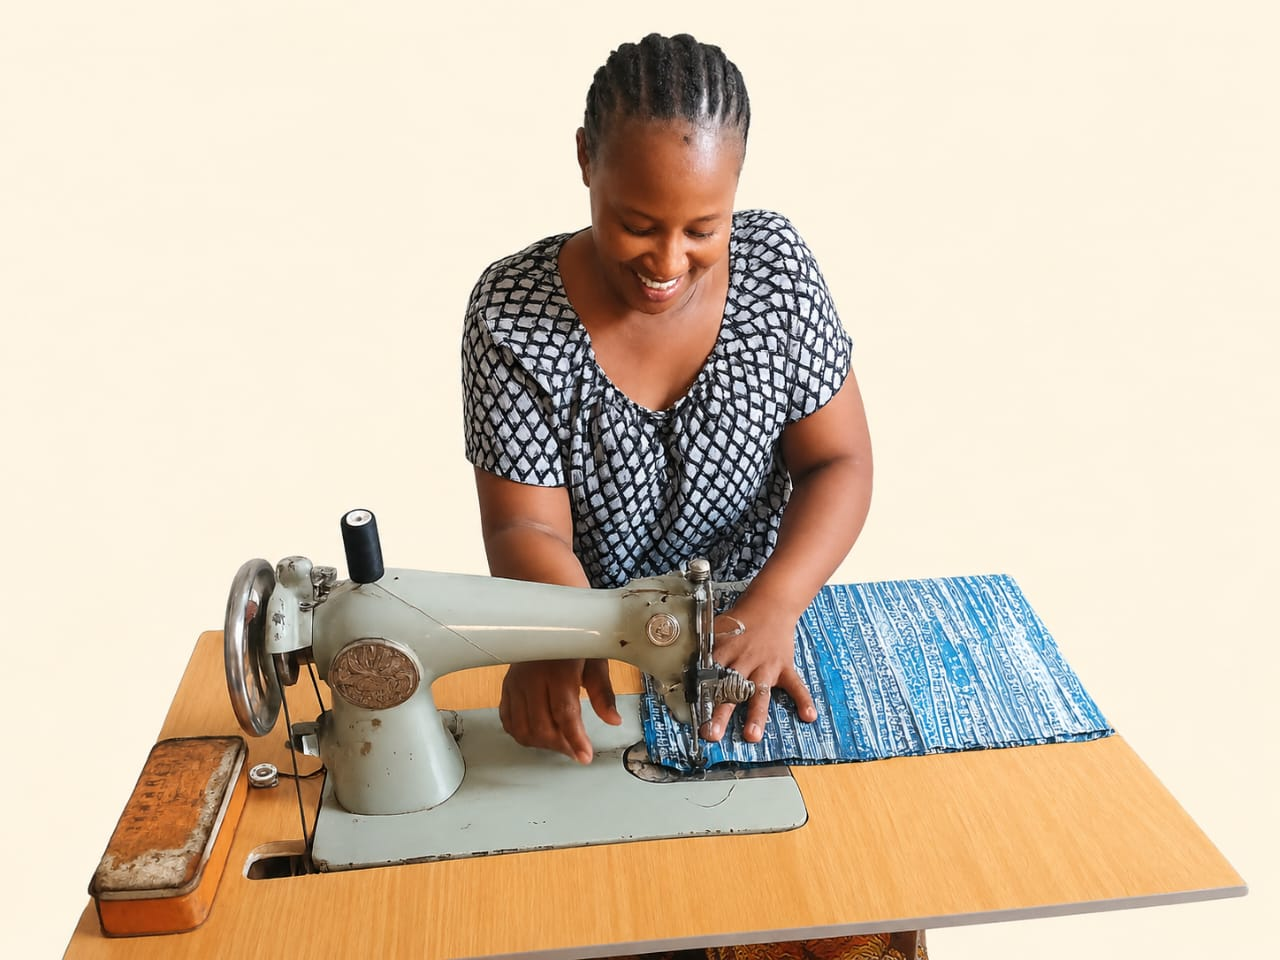
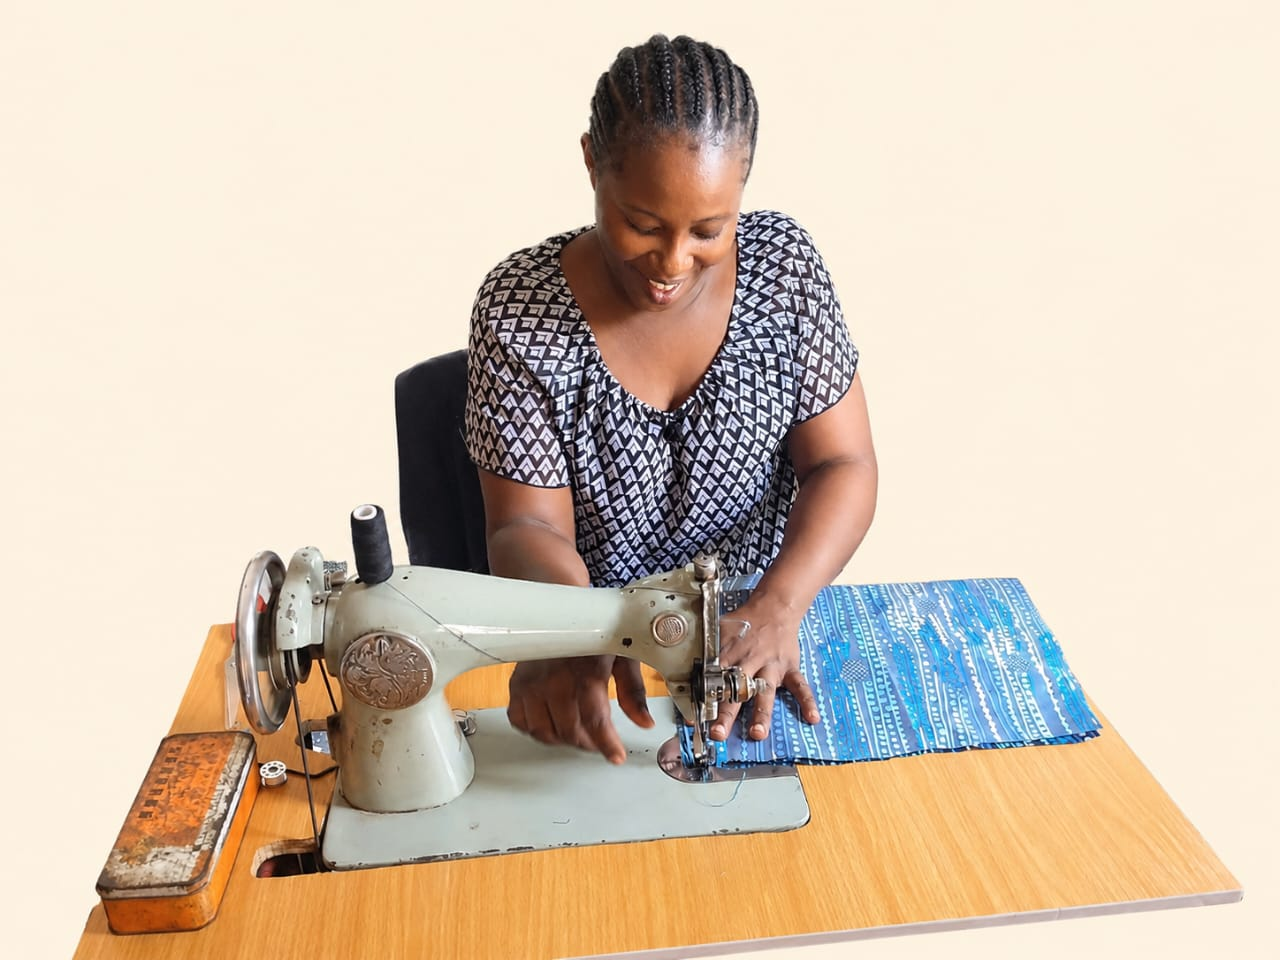
update images

Changed region(s): [[0.0312, 0.0312, 0.875, 1.0], [0.3438, 0.875, 1.0, 1.0], [0.9062, 0.8125, 0.9375, 0.875]]

diff --git a/components/Measurements.tsx b/components/Measurements.tsx
@@ -2,7 +2,7 @@
 
 import Image from "next/image";
 import { useState } from "react";
-import profilePic from '../public/measure.jpg';
+import profilePic from '../public/measure.jpeg'; 
 
 const FIELDS = [
   { key: "bust",      n: "1", label: "Bust / chest" },

diff --git a/CLAUDE.md b/CLAUDE.md
@@ -1,1 +1,49 @@
+# CLAUDE.md
+
+This file provides guidance to Claude Code (claude.ai/code) when working with code in this repository.
+
 @AGENTS.md
+
+## Commands
+
+```bash
+npm run dev      # start dev server (localhost:3000)
+npm run build    # production build
+npm run lint     # ESLint via next lint
+```
+
+There are no tests.
+
+## Architecture
+
+Single-page marketing site for a bespoke Ankara tailor in Owerri, Nigeria. One route (`app/page.tsx`) renders all sections as a flat list of components in page order.
+
+**Stack:** Next.js 16 (App Router) · React 19 · TypeScript · Tailwind v4 · GSAP 3
+
+### Styling
+
+All design tokens live as CSS custom properties in `app/globals.css` under `:root`. Components use `var(--ink)`, `var(--cream)`, `var(--gold)`, etc. via inline styles — not Tailwind utility classes. Tailwind is imported only for its base reset (`@import "tailwindcss"`).
+
+Dark theme is implemented via `[data-theme="dark"]` on `<html>`, which overrides `--ink`, `--cream`, and navbar surface variables. The Navbar toggles it and persists the choice to `localStorage`; an inline script in `app/layout.tsx` `<head>` restores the saved theme before first paint.
+
+### Client vs Server components
+
+Most components are plain Server Components. The four that are `"use client"`:
+
+| Component | Why |
+|---|---|
+| `Navbar` | Theme toggle state + localStorage |
+| `Measurements` | Form input state |
+| `FloatingCTA` | Scroll-position visibility |
+| `ScrollAnimations` | GSAP — runs `useEffect` to animate other sections by DOM selector |
+
+`ScrollAnimations` is renderless (returns `null`) and is mounted at the bottom of the page. It targets other sections by class names like `.nk-step-card`, `.nk-reviews-grid`, etc. defined in `globals.css`.
+
+### Nav anchor IDs
+
+`#work` → Lookbook · `#about` · `#process` · `#reviews`  
+(`#services` exists in the DOM but the nav link is commented out.)
+
+### Images
+
+All images are in `public/`. The logo (`icon.jpeg`) is used in Navbar via `next/image` with `fill` layout inside a fixed-size container.